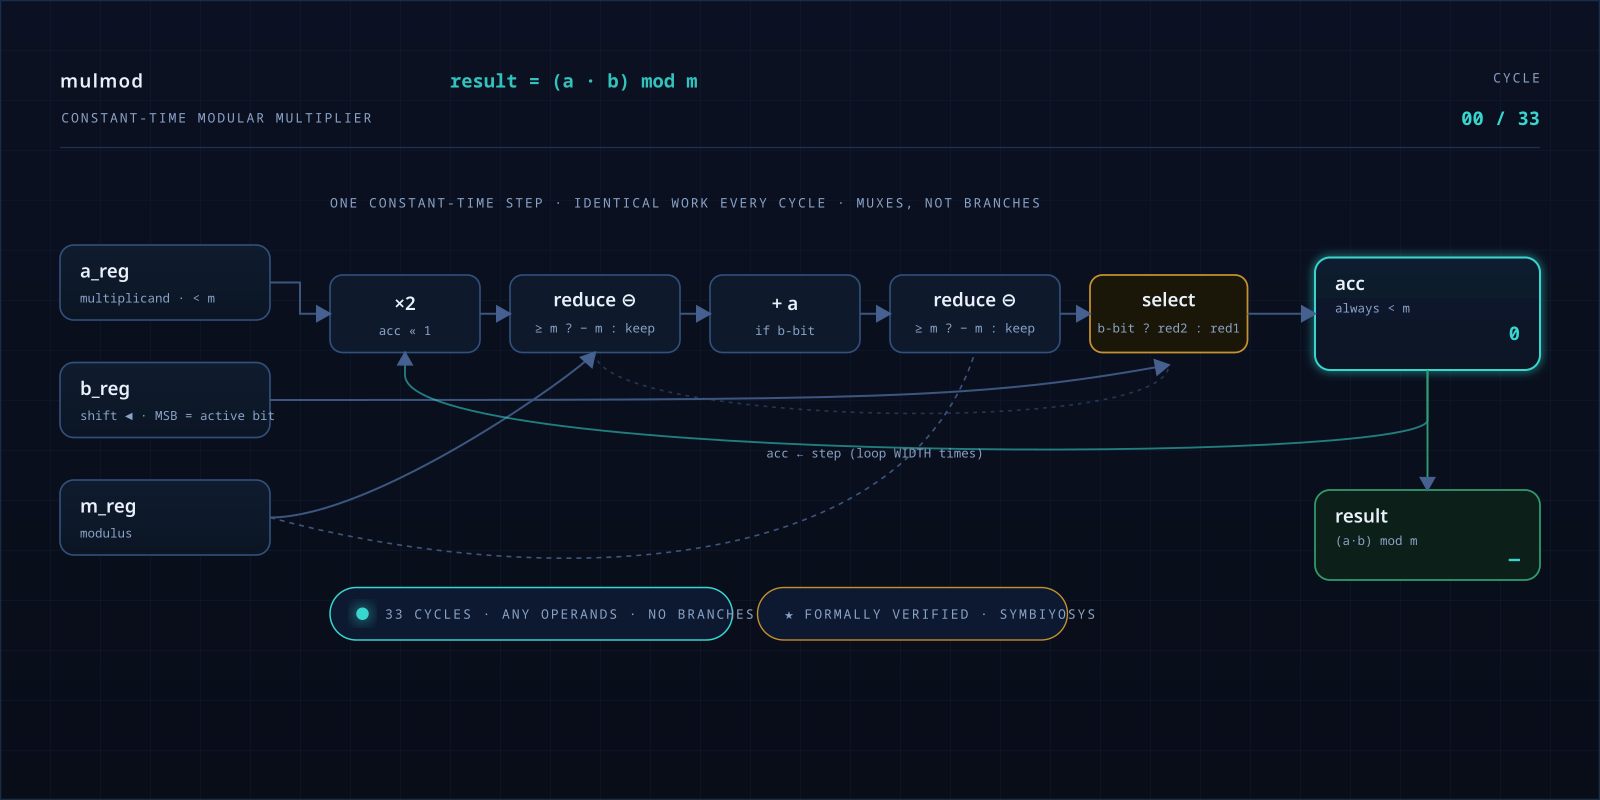
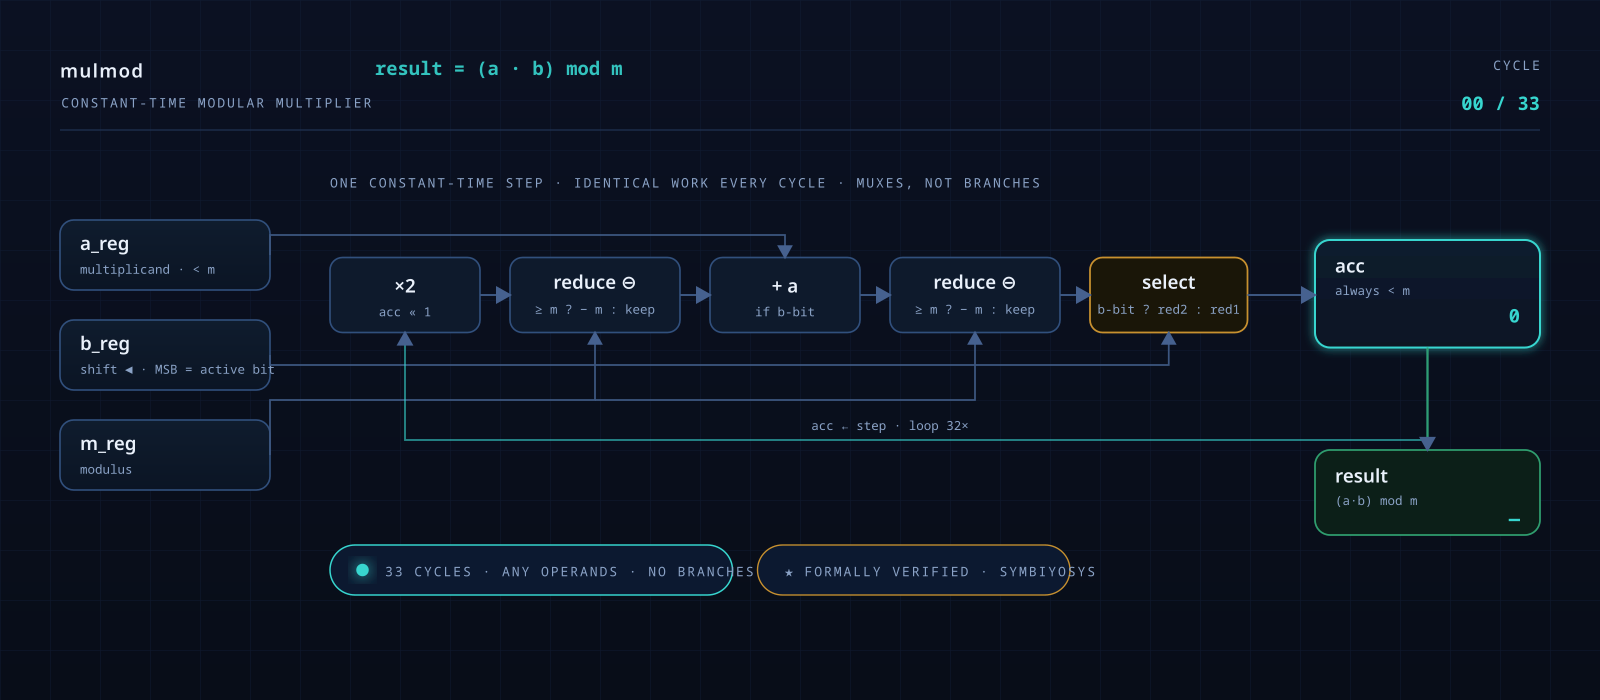
Reroute the datapath diagram with clean orthogonal traces
Replace the crossing bezier fan-in/feedback curves with right-angle traces:
a_reg -> +a along the top, the modulus bus into both reducers, and a single
tidy acc -> x2 feedback loop clear of the legend. Also more faithful to the
recurrence (x2 is driven by the feedback, not a register). Unify the standalone
doc/ and web/assets copies to this same layout and re-render the PNG.

diff --git a/web/index.html b/web/index.html
@@ -105,15 +105,21 @@
   <rect x="606" y="436" width="250" height="40" rx="20" fill="#0c1930" stroke="#c8912f" stroke-width="1.1"/>
   <text x="628" y="461" class="kick" fill="#e2c48d">★ FORMALLY VERIFIED · SYMBIYOSYS</text>
 
+  <!-- forward pipeline -->
   <g fill="none" stroke="#3c5680" stroke-width="1.6" marker-end="url(#arr)">
     <path d="M384 236 H408"/><path d="M544 236 H568"/><path d="M688 236 H712"/><path d="M848 236 H872"/><path d="M998 236 H1052"/>
-    <path d="M216 204 H240 V236 H264"/>
-    <path d="M216 284 C 700 284, 780 284, 935 276"/>
-    <path d="M216 364 C 300 364, 460 280, 476 266"/>
   </g>
-  <path d="M216 364 C 420 440, 720 440, 780 266" fill="none" stroke="#3c5680" stroke-width="1.3" stroke-dasharray="4 4"/>
-  <path d="M1142 278 V318 C 1142 350, 324 350, 324 284 V266" fill="none" stroke="#37d6cf" stroke-width="1.5" stroke-opacity="0.55" marker-end="url(#arr)"/>
-  <text x="700" y="344" text-anchor="middle" class="mux" fill="#4fb6b0">acc ← step   (loop WIDTH times)</text>
+  <!-- operand + modulus fan-in (orthogonal traces) -->
+  <g fill="none" stroke="#3c5680" stroke-width="1.4" marker-end="url(#arr)">
+    <path d="M216 204 V188 H628 V206"/>          <!-- a_reg  → + a       -->
+    <path d="M216 284 V292 H935 V266"/>          <!-- b_reg  → select    -->
+    <path d="M216 364 V320 H476 V266"/>          <!-- m_reg  → reduce ①  -->
+    <path d="M476 320 H780 V266"/>               <!-- m_reg bus → reduce ② -->
+  </g>
+  <!-- feedback: acc → ×2 (the loop) -->
+  <path d="M1142 278 V352 H324 V266" fill="none" stroke="#37d6cf" stroke-width="1.5" stroke-opacity="0.6" marker-end="url(#arr)"/>
+  <text x="712" y="344" text-anchor="middle" class="mux" fill="#4fb6b0">acc ← step · loop 32×</text>
+  <!-- acc → result -->
   <path d="M1142 278 V360" fill="none" stroke="#2f9e6f" stroke-width="1.5" marker-end="url(#arr)"/>
 </svg>
     </div>
